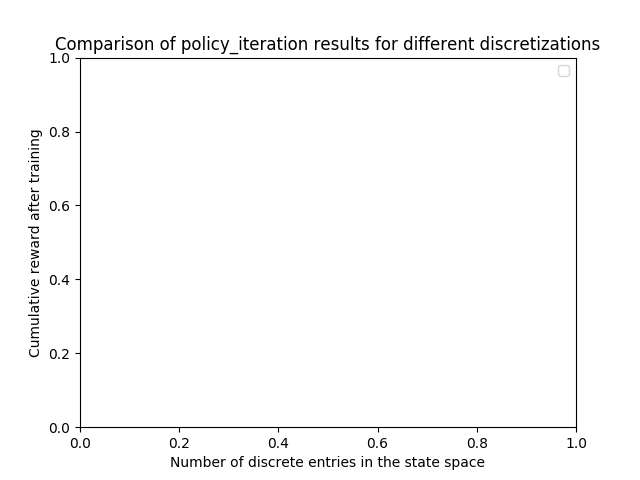
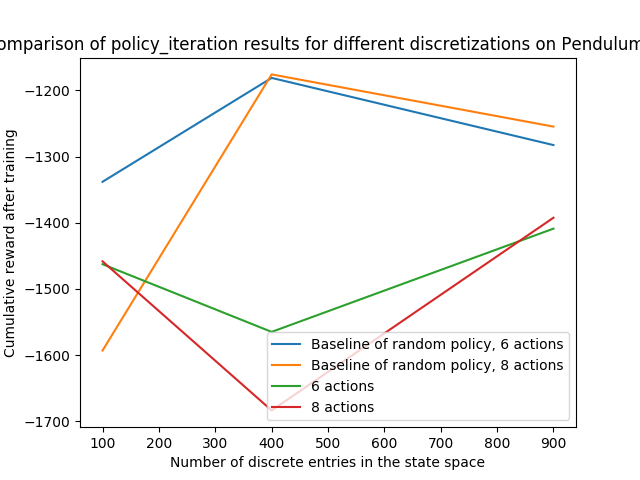
Working on val and pol iter. TODO: try different discretizations (maybe google it)

diff --git a/cumul_rew_measure.py b/cumul_rew_measure.py
@@ -9,7 +9,6 @@ import matplotlib.pyplot as plt
 import torch
 
 from dyn_prog import DynProg
-from policy import RandomExplorationPolicy
 
 
 def plot_results(algo_name, env_name, cumul_rew_list, n_states, n_acts):
@@ -18,9 +17,14 @@ def plot_results(algo_name, env_name, cumul_rew_list, n_states, n_acts):
     :param algo_name: Name of the algorithm
     :param env_name: Name of the environment
     :param cumul_rew_list:
-    :param n_acts: List with different numbers of states
+    :param n_states: List with different numbers of states
     :param n_acts: List with different numbers of actions
     """
+    # Plot random results
+    global rand_rews
+    for ai, i in zip(n_acts, range(len(n_acts))):
+        plt.plot(n_states, rand_rews[i], label="Baseline of random policy, "+str(ai)+" actions")
+
     # Iterate over number of actions and plot curves with values for different state numbers
     for na in range(len(cumul_rew_list)):
         plt.plot(n_states, cumul_rew_list[na], label=str(n_acts[na]) + " actions")
@@ -30,11 +34,41 @@ def plot_results(algo_name, env_name, cumul_rew_list, n_states, n_acts):
     plt.legend()
 
     # Save plot
-    #fig = plt.gcf()
-    #fig.savefig('figures/cumul_rew_' + algo_name + '_comparison_' + env_name + '.png')
+    fig = plt.gcf()
+    fig.savefig('figures/cumul_rew_' + algo_name + '_comparison_' + env_name + '.png')
 
     # Show plot
     plt.show()
+
+
+def evaluate_policy(env_name, pol):
+    """
+    Computes the cumulative reward for a given policy on a 100 episode rollout
+    :param env_name: Name of the environment
+    :param pol: Contains space discretization and optimal actions
+    :return: Total reward
+    """
+    val_env = gym.make(env_name)
+    states, actions = pol
+    total_reward = 0.0
+    for i in range(100):
+
+        # Reset the environment
+        observation = val_env.reset()
+        done = False
+
+        episode_reward = 0.0
+        while not done:
+            idx = ((states - observation) ** 2).sum(1).argmin()
+            action = [actions[idx]]
+            observation, rew, done, _ = val_env.step(action)  # Take action
+            episode_reward += rew
+
+        total_reward += episode_reward
+
+    total_reward /= 100
+    print("Total reward: ", total_reward)
+    return total_reward
 
 
 def compare_rewards(env_name, n_states, n_acts):
@@ -50,8 +84,6 @@ def compare_rewards(env_name, n_states, n_acts):
     dynamics = pickle.load(open("nets/dyn_" + env_name + ".fitnn", "rb"))
 
     env = gym.make(env_name)
-    print("Reward range: ", env.reward_range)
-    policy = RandomExplorationPolicy()
 
     cumul_rew_list1, cumul_rew_list2 = [], []
 
@@ -61,77 +93,58 @@ def compare_rewards(env_name, n_states, n_acts):
         for ns in n_states:
             print("Number of discrete states: ", ns)
 
-            # Train agent
-            agent = DynProg(policy, env, reward, dynamics, (ns, na))
-            _, cumul_rew1 = agent.train_val_iter()
-            cumul_rew_states1.append(cumul_rew1)
+            # Train agents
+            agent = DynProg(env, reward, dynamics, (ns, na))
+            _, pol1 = agent.train_val_iter()
+            _, pol2 = agent.train_pol_iter()
 
-            # Vk2, pol2, cumul_rew2 = agent.train_pol_iter()
+            # Evaluate Policy
+            total_reward1 = evaluate_policy(env_name, pol1)
+            total_reward2 = evaluate_policy(env_name, pol2)
+
+            cumul_rew_states1.append(total_reward1)
+            cumul_rew_states2.append(total_reward2)
 
         cumul_rew_list1.append(cumul_rew_states1)
-        # cumul_rew_list2.append(cumul_rew_states2)
+        cumul_rew_list2.append(cumul_rew_states2)
 
     # Value iteration plot
     plot_results("value_iteration", env_name, cumul_rew_list1, n_states, n_acts)
 
     # Policy iteration plot
-    #plot_results("policy_iteration", env_name, cumul_rew_list2)
+    plot_results("policy_iteration", env_name, cumul_rew_list2, n_states, n_acts)
 
-
-def compare_rewards_value_iteration(env_name, n_states, n_acts):
+def compare_rewards_random(env_name, n_states, n_acts):
     """
-    Trains via Value and Policy Iteration on different discretizations and plots cumulative rewards
-    :param env_name: Name of the current environment
-    :param n_states: List with state space discretizations
-    :param n_acts: List with action space discretizations
+
+    :param env_name:
+    :param n_states:
+    :param n_acts:
+    :return:
     """
-    print(env_name)
-    # Open dynamics and reward NNs
-    reward = pickle.load(open("nets/rew_" + env_name + ".fitnn", 'rb'))
-    dynamics = pickle.load(open("nets/dyn_" + env_name + ".fitnn", "rb"))
-
-    env = gym.make(env_name)
-    policy = RandomExplorationPolicy()
-
     cumul_rew_list1 = []
 
     for na in n_acts:
         print("Number of discrete actions: ", na)
-        cumul_rew_states1, cumul_rew_states2 = [], []
+        cumul_rew_states1 = []
         for ns in n_states:
             print("Number of discrete states: ", ns)
 
-            # Train agent
-            agent = DynProg(policy, env, reward, dynamics, (ns, na))
-            _, pol = agent.train_val_iter()
-
+            # Init. random policy
+            arg = np.sqrt(ns) * 1j
+            sts = np.mgrid[-np.pi:np.pi:arg, -8.0:8.0:arg].reshape(2, -1).T
+            acts = np.linspace(-2, 2, na)
+            pol = [sts, np.random.choice(acts, sts.shape[0])]
 
             # Evaluate Policy
-            val_env = gym.make(env_name)
-            states, actions = pol
-            total_reward = 0.0
-            for i in range(100):
+            total_reward = evaluate_policy(env_name, pol)
 
-                # Reset the environment
-                observation = val_env.reset()
-                done = False
-
-                episode_reward = 0.0
-                while not done:
-                    idx = ((states - observation) ** 2).sum(1).argmin()
-                    action = [actions[idx]]
-                    observation, rew, done, _ = val_env.step(action)  # Take action
-                    episode_reward += rew
-
-                total_reward += episode_reward
-
-            total_reward /= 100.0
             cumul_rew_states1.append(total_reward)
 
         cumul_rew_list1.append(cumul_rew_states1)
 
-    # Value iteration plot
-    plot_results("value_iteration", env_name, cumul_rew_list1, n_states, n_acts)
+    return cumul_rew_list1
+
 
 # Pendulum
 #compare_rewards("Pendulum-v2", [100, 400, 900, 1600, 2500], [4, 8, 16, 32])
@@ -141,4 +154,12 @@ def compare_rewards_value_iteration(env_name, n_states, n_acts):
 #compare_rewards("Qube-v0", [100, 400, 900, 1600, 2500], [4, 8, 16, 32])
 
 #compare_rewards_value_iteration("Pendulum-v2", [1600, 2500, 3600, 4900, 6400], [100])
-compare_rewards_value_iteration("Pendulum-v2", [100, 400], [5, 10])
+
+#sd = [2500, 3600, 4900]
+sd = [900, 1600, 2500]
+#sd = [4, 16]
+ad = [8, 10, 12]
+print("Random results:")
+rand_rews = compare_rewards_random("Pendulum-v2", sd, ad)
+print("-----")
+compare_rewards("Pendulum-v2", sd, ad)

diff --git a/dyn_prog.py b/dyn_prog.py
@@ -8,14 +8,12 @@ class DynProg:
     Represents the Dynamic Programming algorithm with its two cases Value and Policy Iteration
     """
 
-    def __init__(self, policy, env, reward, dynamics, n_sa=(16, 4)):
+    def __init__(self, env, reward, dynamics, n_sa=(2500, 8)):
         """
-        :param policy: A Gaussian exploration policy
         :param env: The learning environment
         :param reward: A NN trained on the reward function
         :param dynamics: A NN trained on the dynamics function
         """
-        self.policy = policy
         self.env = env
         self.reward = reward
         self.dynamics = dynamics
@@ -32,9 +30,8 @@ class DynProg:
     def train_val_iter(self, discount=0.9):
         """
         Value Iteration algo
-        :param n_states:
-        :param discount:
-        :return: Vk is the converged V function
+        :param discount: Hyperparameter for weighting future rewards
+        :return: Converged V function and states together with optimal policy
         """
         # Init.
         oldvalues = np.zeros((self.n_states,))
@@ -43,6 +40,7 @@ class DynProg:
         while True:
             print("Iteration ", iter)
             newvalues = np.zeros((self.n_states,))
+            pred_acts = []
 
             # Iterate over states
             for state, i in zip(self.states, range(self.n_states)):
@@ -60,7 +58,10 @@ class DynProg:
                     # Compute Q and append
                     Q_all.append(rew + discount * oldvalues[idx])
 
-                newvalues[i] = np.max(np.array(Q_all))
+                # Update V fun and policy
+                Q_all = np.array(Q_all)
+                newvalues[i] = np.max(Q_all)
+                pred_acts.append(self.actions[np.argmax(Q_all)])
 
             # Convergence check
             if (np.abs(oldvalues - newvalues) < 0.1).all():
@@ -69,36 +70,19 @@ class DynProg:
             oldvalues = newvalues[:]
             iter += 1
 
-
-        # Generate policy based on converged Value Function
-        pred_act = []
-        for state in self.states:
-            Q = []
-            for action in self.actions:
-                nxt_state = self.dynamics.predict(torch.Tensor([state[0], state[1], action]))
-                reward = self.reward.predict(torch.Tensor([state[0], state[1], action]))
-                reward = np.abs(reward ** -1)
-                idx = self.find_nearest(self.states, nxt_state)
-                Q.append(reward + discount * oldvalues[idx])
-
-            pred_act.append(self.actions[np.argmax(np.array(Q))])
-
-        return newvalues, [self.states, pred_act]
+        return newvalues, [self.states, pred_acts]
 
     def train_pol_iter(self, discount=0.9):
         """
         Policy Iteration algo
-        :param n_states:
-        :param discount:
-        :return: Vk is the converged V function from the last iteration and policy is the converged policy
+        :param discount: Hyperparameter for weighting future rewards
+        :return: Converged V function and states together with optimal policy
         """
-
-        # TODO: Policy Iteration (30)
         # Init
         Vk = np.zeros((self.n_states,))
         # Init. policy uniformly with actions
         policy = np.random.choice(range(self.n_actions), size=self.n_states)
-        policy_old = policy[:]
+        policy_old = np.copy(policy)
 
         round_num = 0
         # Repeat for policy convergence
@@ -106,7 +90,6 @@ class DynProg:
             print("Round Number:", round_num)
             # Repeat for V convergence
             iter = 0
-            policy = np.random.choice(range(self.n_actions), size=self.n_states)
             while True:
                 print("Iteration ", iter)
                 Vk_new = np.zeros((self.n_states,))
@@ -128,7 +111,6 @@ class DynProg:
 
                     # Compute V-Function
                     Vk_new[i] = Q_all[i][policy[i]]
-                    #print("hi")
 
                 # Convergence check for V fun
                 if (np.abs(Vk - Vk_new) < 0.1).all():
@@ -142,15 +124,21 @@ class DynProg:
                 policy[curr_s] = np.argmax(Q_all[curr_s][:])
 
             # Convergence check for policy
-            if (policy_old == policy).all():
+            if (np.abs(policy_old - policy) < 0.1*self.n_actions).all():
                 break
 
-            policy_old = policy[:]
+            policy_old = np.copy(policy)
             round_num += 1
 
         return Vk_new, [self.states, [self.actions[act] for act in policy]]
 
     def find_nearest(self, array, value):
+        """
+        Finds the nearest discretized state
+        :param array: Contains all discretized states
+        :param value: A sampled state
+        :return: Nearest state to value
+        """
         return ((array - value) ** 2).sum(1).argmin()
 
     def next_best_action(self, state, V, discount):

diff --git a/main.py b/main.py
@@ -8,18 +8,16 @@ import torch
 import numpy as np
 
 from dyn_prog import DynProg
-from policy import RandomExplorationPolicy
 from fun_approximator import FitNN
 
 # Solve for Pendulum
 env = gym.make("Pendulum-v2")
 #env = gym.make("Qube-v0")
-policy = RandomExplorationPolicy()
 
 # Dimension of states
-s_dim = env.reset().shape[0]
-reward = FitNN(s_dim+1, 1, env, False)
-dynamics = FitNN(s_dim+1, s_dim, env, True)
+#s_dim = env.reset().shape[0]
+#reward = FitNN(s_dim+1, 1, env, False)
+#dynamics = FitNN(s_dim+1, s_dim, env, True)
 
 # Sample training data
 print("Rollout policy...")
@@ -39,7 +37,7 @@ env_name = "Pendulum-v2"
 reward = pickle.load(open("nets/rew_" + env_name + ".fitnn", 'rb'))
 dynamics = pickle.load(open("nets/dyn_" + env_name + ".fitnn", "rb"))
 
-agent = DynProg(policy, env, reward, dynamics)
+agent = DynProg(env, reward, dynamics)
 #Vk, pol = agent.train_val_iter()
 Vk, pol = agent.train_pol_iter()
 print(pol)
